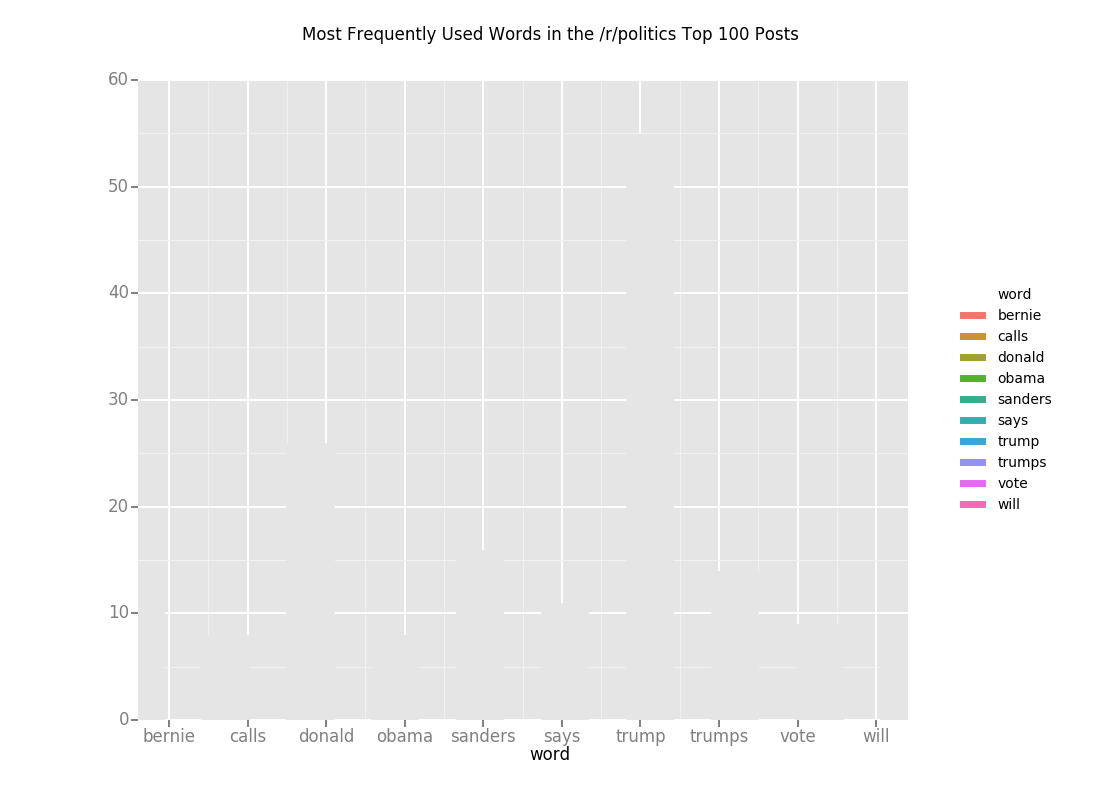
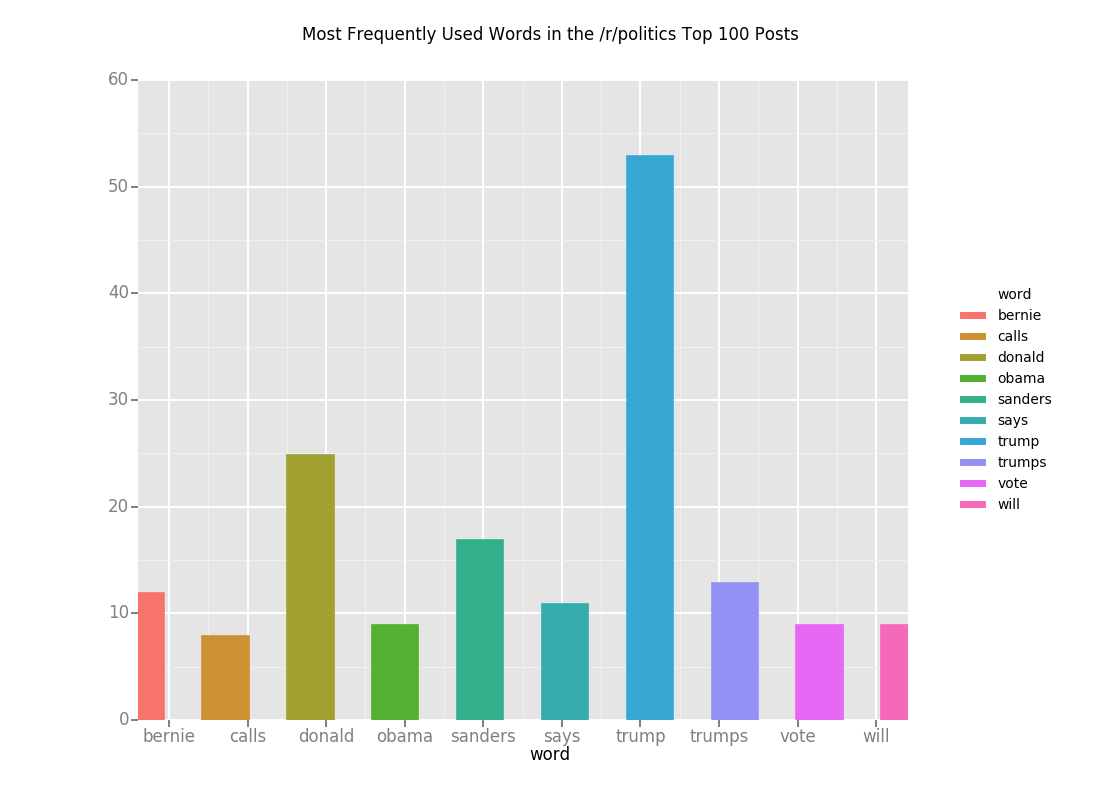
Code clean-up

diff --git a/election_scraper.py b/election_scraper.py
@@ -10,6 +10,7 @@ from ggplot import *
 import urllib.request
 import scipy
 import calendar
+
 # Summary of pip packages we're using:
 # praw: Reddit api scraper with a collection of methods that can be used to retrieve data from reddit.com
 # pip install praw
@@ -70,6 +71,7 @@ def get_top_posts(subreddits, fields, num_posts):
 
 # good OOP practice
 subreddit_dicts = get_top_posts(subreddits, fields, 100)
+print("Got data from reddit")
 
 # each df below contains the data for fields above
 df_republican = pd.DataFrame.from_dict(subreddit_dicts[0])
@@ -92,7 +94,6 @@ for index, df in enumerate(all_data):
     df_activity.date = df_activity.date.apply(lambda x: datetime.datetime.strptime(str(x), "(%Y, '%b')"))
     df_activity = df_activity.sort_values(by="date", ascending = True)
     df_activity.date = df_activity.date.apply(lambda x: x.strftime("%b %Y"))
-    print(df_activity)
     subreddit_plot = df_activity.plot(kind="bar", ax = axs[index], color = colors[index])
     subreddit_plot.grid(True)
     subreddit_plot.set_ylabel("Number of top posts")
@@ -108,13 +109,15 @@ plt.subplots_adjust(top = 0.9)
 fig.savefig("img/post_months.png", dpi=100)
 plt.close()
 
+print("plotted monthly distribution of post creation dates")
+
 # Count word frequencies
 # Returns: a list of dataframes of word frequencies for each item in the "dfs" parameter
 def get_word_frequency(dfs):
     #stop words are common words like "I, me, this, the, a, of, to, etc."
     stop_words = get_stop_words('english')
     word_freq = []
-    for df in dfs:
+    for index, df in enumerate(dfs):
         # keeps track of frequencies
         frequencies = defaultdict(int)
         titles = list(df.title)
@@ -133,21 +136,24 @@ def get_word_frequency(dfs):
         data = {"word": list(frequencies.keys()), "frequency": list(frequencies.values())}
         df_freq = pd.DataFrame(data, columns = ["word", "frequency"])
         df_freq = df_freq.sort_values(by="frequency", ascending = False)
+        df_freq["subreddit"] = subreddits[index]
         word_freq.append(df_freq)
     return word_freq
 
 word_frequencies = get_word_frequency(all_data)
 
-fig, axs = plt.subplots(len(all_data), 1)
+fig, axs = plt.subplots(len(all_data), 1, figsize = (15,10))
 for index, df in enumerate(word_frequencies):
     df = df[0:15]
     frequency_plot = df.plot(kind="bar",x="word", y="frequency", ax=axs[index], color = colors[index])
 plt.tight_layout()
-fig.savefig("img/word_frequency.png")
+fig.savefig("img/word_frequency.png", dpi = 100)
 plt.close()
 
+print("Got and plotted word frequencies")
+
 #%%
-# Victoria's code
+# Victoria's code with clean-up by max
 # plotting word freq
 
 for index, df in enumerate(word_frequencies):
@@ -156,90 +162,51 @@ for index, df in enumerate(word_frequencies):
         geom_bar(size = 30) + ggtitle("Most Frequently Used Words in the /r/" + subreddits[index] + " Top 100 Posts")
     g.save("img/" + subreddits[index] + "_frequency.png")
 
+mergeTwoDf = word_frequencies[0][:10].merge(word_frequencies[1][:10], how = "outer")
+allSubredditsMerged = mergeTwoDf.merge(word_frequencies[2][:10], how = "outer")
+
+
 ggplot(aes(x = "subreddit", weight = "frequency", fill = 'subreddit'), data = allSubredditsMerged[allSubredditsMerged.word == "trump"]) +\
     geom_bar(size = 25) + ggtitle("Frequency of \"Trump\" Across the Three Different Subreddits")
-#%%
 
-bipartisan_top10Words = np.array(word_frequencies[2][:10].word)
-democrat_top10Words = np.array(word_frequencies[1][:10].word)
-republican_top10Words = np.array(word_frequencies[0][:10].word)
+top_10_words = [np.array(df[0:10].word) for df in word_frequencies]
 
-np.intersect1d(bipartisan_top10Words, democrat_top10Words)  
-np.intersect1d(republican_top10Words, democrat_top10Words)
-np.intersect1d(republican_top10Words, bipartisan_top10Words)
+np.intersect1d(top_10_words[2], top_10_words[1])
+np.intersect1d(top_10_words[0], top_10_words[1])
+np.intersect1d(top_10_words[0], top_10_words[2])
 
 # all three intersect at the word "Trump"
 #%%
+
 # Identify users who posted in more than one subreddit
-bipartisan_users = np.unique(df_bipartisan.author)
-democrat_users = np.unique(df_democrat.author)
-republican_users = np.unique(df_republican.author)
+"""
+Not using this part
+multi_users = [np.unique(df.author) for df in word_frequencies]
 
 np.intersect1d(bipartisan_users, democrat_users)
 np.intersect1d(republican_users, democrat_users) # unable to tell if any users posted in both republican & democrat
 np.intersect1d(bipartisan_users, republican_users) # unable to tell
-
+"""
 #%%
 # Confidence interval
-republican_subs = r.subreddit("The_Donald").subscribers
-democrat_subs = r.subreddit("HillaryClinton").subscribers
-bipartisan_subs = r.subreddit("politics").subscribers
+num_subs = [r.subreddit(sub_name).subscribers for sub_name in subreddits]
 
-# calculate scaled value of upvotes
-df_republican["scaledups"] = df_republican.ups / republican_subs
-df_democrat["scaledups"] = df_democrat.ups / democrat_subs
-df_bipartisan["scaledups"] = df_bipartisan.ups / bipartisan_subs
+for index, df in enumerate(all_data):
+    df["scaled_ups"] = df.ups / num_subs[index]
+    x_bar = np.mean(df["scaled_ups"])
+    std = np.std(df["scaled_ups"], ddof = 1)
+    ci_range = scipy.stats.t.isf(0.025, len(df) - 1) * (std / len(df) ** 0.5)
+    confidence_interval = [x_bar - ci_range, x_bar + ci_range]
+    print("95% confidence interval for scaled upvotes for", subreddits[index], ":", confidence_interval)
 
-xbar_republicanUps = np.mean(df_republican["scaledups"])
-std_republicanUps = np.std(df_republican["scaledups"], ddof = 1)
+    # confidence interval for upvote to comment ratio
+    df["upvote_comment_ratio"] = df.ups / df.num_comments
+    x_bar = np.mean(df["upvote_comment_ratio"])
+    std = np.std(df["upvote_comment_ratio"], ddof = 1)
+    ci_range = scipy.stats.t.isf(0.025, len(df) - 1) * (std / len(df) ** 0.5)
+    confidence_interval = [x_bar - ci_range, x_bar + ci_range]
+    print("95% confidence interval for ratio of upvotes to comments", subreddits[index], ":", confidence_interval)
 
-xbar_democratUps = np.mean(df_democrat["scaledups"])
-std_democratUps = np.std(df_democrat["scaledups"], ddof = 1)
 
-xbar_bipartisanUps = np.mean(df_bipartisan["scaledups"])
-std_bipartisanUps = np.std(df_bipartisan["scaledups"], ddof = 1)
 
-# 95% CI for scaled mean value of upvotes
-upperBoundRepublican_scaledMean = xbar_republicanUps + scipy.stats.t.isf(0.025, len(df_republican)-1)*(std_republicanUps / len(df_republican)**0.5)
-lowerBoundRepublican_scaledMean = xbar_republicanUps - scipy.stats.t.isf(0.025, len(df_republican)-1)*(std_republicanUps / len(df_republican)**0.5)
-
-upperBoundDemocrat_scaledMean = xbar_democratUps + scipy.stats.t.isf(0.025, len(df_democrat)-1)*(std_democratUps / len(df_democrat)**0.5)
-lowerBoundDemocrat_scaledMean = xbar_democratUps - scipy.stats.t.isf(0.025, len(df_democrat)-1)*(std_democratUps / len(df_democrat)**0.5)
-
-upperBoundBipartisan_scaledMean = xbar_bipartisanUps + scipy.stats.t.isf(0.025, len(df_bipartisan)-1)*(std_bipartisanUps / len(df_bipartisan)**0.5)
-lowerBoundBipartisan_scaledMean = xbar_bipartisanUps - scipy.stats.t.isf(0.025, len(df_bipartisan)-1)*(std_bipartisanUps / len(df_bipartisan)**0.5)
-
-print("Republican 95%: ", [lowerBoundRepublican_scaledMean, upperBoundRepublican_scaledMean])
-print("Democrat 95%: ", [lowerBoundDemocrat_scaledMean, upperBoundDemocrat_scaledMean])
-print("Bipartisan 95%: ", [lowerBoundBipartisan_scaledMean, upperBoundBipartisan_scaledMean])
-
-#%%
-
-df_republican["ratioUpvotesVsComments"] = df_republican.ups / df_republican.num_comments
-df_democrat["ratioUpvotesVsComments"] = df_democrat.ups / df_democrat.num_comments
-df_bipartisan["ratioUpvotesVsComments"] = df_bipartisan.ups / df_bipartisan.num_comments
-
-xbar_republicanRatio = np.mean(df_republican["ratioUpvotesVsComments"])
-std_republicanRatio = np.std(df_republican["ratioUpvotesVsComments"], ddof = 1)
-
-xbar_democratRatio = np.mean(df_democrat["ratioUpvotesVsComments"])
-std_democratRatio = np.std(df_democrat["ratioUpvotesVsComments"], ddof = 1)
-
-xbar_bipartisanRatio = np.mean(df_bipartisan["ratioUpvotesVsComments"])
-std_bipartisanRatio = np.std(df_bipartisan["ratioUpvotesVsComments"], ddof = 1)
-
-upperBoundRepublican_ratioMean = xbar_republicanRatio + scipy.stats.t.isf(0.025, len(df_republican)-1)*(std_republicanRatio / len(df_republican)**0.5)
-lowerBoundRepublican_ratioMean = xbar_republicanRatio - scipy.stats.t.isf(0.025, len(df_republican)-1)*(std_republicanRatio / len(df_republican)**0.5)
-
-upperBoundDemocrat_ratioMean = xbar_democratRatio + scipy.stats.t.isf(0.025, len(df_democrat)-1)*(std_democratRatio / len(df_democrat)**0.5)
-lowerBoundDemocrat_ratioMean = xbar_democratRatio - scipy.stats.t.isf(0.025, len(df_democrat)-1)*(std_democratRatio / len(df_democrat)**0.5)
-
-upperBoundBipartisan_ratioMean = xbar_bipartisanRatio + scipy.stats.t.isf(0.025, len(df_bipartisan)-1)*(std_bipartisanRatio / len(df_bipartisan)**0.5)
-lowerBoundBipartisan_ratioMean = xbar_bipartisanRatio - scipy.stats.t.isf(0.025, len(df_bipartisan)-1)*(std_bipartisanRatio / len(df_bipartisan)**0.5)
-
-print("Republican 95%: ", [lowerBoundRepublican_ratioMean, upperBoundRepublican_ratioMean])
-print("Democrat 95%: ", [lowerBoundDemocrat_ratioMean, upperBoundDemocrat_ratioMean])
-print("Bipartisan 95%: ", [lowerBoundBipartisan_ratioMean, upperBoundBipartisan_ratioMean])
-
-# Overlap between democrats & republican ratio of upvotes vs comments
 
